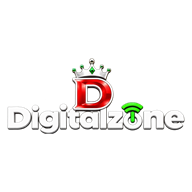
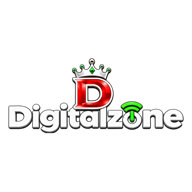
feat: add login component, navbar, and core application assets and configuration

Changed region(s): [[0.0312, 0.2812, 0.9688, 0.7188]]

diff --git a/src/components/Navbar.tsx b/src/components/Navbar.tsx
@@ -131,17 +131,17 @@ const Navbar: React.FC = () => {
 
   return (
     <>
-      <header className="bg-white text-gray-900 shadow-md border-b border-gray-200 sticky top-0 z-50">
+      <header className="bg-slate-50/95 text-gray-900 shadow-xs border-b border-slate-200 sticky top-0 z-50 backdrop-blur-sm">
         <div className="max-w mx-auto px-3 sm:px-4 md:px-6">
           <div className="flex justify-between items-center py-2 sm:py-2.5 md:py-3">
             <div className="flex items-center gap-2">
               <button
                 onClick={() => showNavigation && setShowSidebar(!showSidebar)}
-                className={`h-8 sm:h-9 md:h-10 w-auto max-w-[120px] flex items-center justify-center ${showNavigation ? 'cursor-pointer hover:opacity-80' : 'cursor-default opacity-100'} transition-opacity duration-200`}
+                className={`h-9 sm:h-10 w-auto flex items-center justify-center px-2 py-0.5 rounded-xl bg-slate-100/90 hover:bg-slate-200/80 border border-slate-200/90 shadow-xs ${showNavigation ? 'cursor-pointer' : 'cursor-default'} transition-all duration-200`}
                 title={showNavigation ? "Open Navigation Menu" : "Check in to enable navigation"}
                 disabled={!showNavigation}
               >
-                <img src={logo} alt="Logo" className="h-full w-auto max-w-[110px] object-contain rounded-lg" />
+                <img src={logo} alt="Logo" className="h-full w-auto max-w-[110px] object-contain drop-shadow-[0_2px_4px_rgba(0,0,0,0.35)]" />
               </button>
               <div>
                 <h1 className="m-0 text-sm sm:text-base md:text-xl font-bold text-gray-900 leading-tight">{currentHub?.name || 'Digital Zone'}</h1>
@@ -244,10 +244,10 @@ const Navbar: React.FC = () => {
         className={`fixed top-0 left-0 h-full w-80 bg-white shadow-2xl z-[70] transform transition-transform duration-300 ease-in-out ${showSidebar ? 'translate-x-0' : '-translate-x-full'
           }`}
       >
-        <div className="flex items-center justify-between p-6 border-b border-gray-200 bg-gradient-to-r from-blue-50 to-indigo-50">
+        <div className="flex items-center justify-between p-6 border-b border-slate-200 bg-gradient-to-r from-slate-100 via-slate-50 to-red-50/20">
           <div className="flex items-center gap-3">
-            <div className="h-10 w-auto max-w-[120px] flex items-center">
-              <img src={logo} alt="Logo" className="h-full w-auto max-w-[110px] object-contain rounded-lg" />
+            <div className="h-11 w-auto flex items-center p-1.5 rounded-xl bg-slate-100/90 border border-slate-200 shadow-xs">
+              <img src={logo} alt="Logo" className="h-full w-auto max-w-[110px] object-contain drop-shadow-[0_2px_4px_rgba(0,0,0,0.35)]" />
             </div>
             <div>
               <h2 className="m-0 text-lg font-bold text-gray-900">Digital Zone</h2>

diff --git a/src/components/Login.tsx b/src/components/Login.tsx
@@ -41,18 +41,20 @@ const Login: React.FC = () => {
   };
 
   return (
-    <div className="flex justify-center items-center min-h-screen bg-white p-4">
-      <div className="bg-white p-10 rounded-2xl shadow-md w-full max-w-md border border-gray-200">
+    <div className="flex justify-center items-center min-h-screen bg-slate-100/70 p-4">
+      <div className="bg-white p-8 sm:p-10 rounded-2xl shadow-xl w-full max-w-md border border-slate-200">
         {/* Logo and Business Name */}
         <div className="flex flex-col items-center mb-8">
-          <img
-            src={logo}
-            alt="Digital Zone Logo"
-            className="h-20 sm:h-24 w-auto max-w-[280px] mb-4 object-contain"
-          />
-          <h1 className="text-center text-gray-900 mb-1 text-3xl font-bold">Digital Zone</h1>
-          <p className="text-center text-gray-600 text-sm font-medium mb-4">Sales | Service | Accessory</p>
-          <h2 className="text-center text-gray-500 text-base font-normal">Login</h2>
+          <div className="p-3 mb-4 rounded-2xl bg-slate-50 border border-slate-200/90 shadow-xs flex items-center justify-center">
+            <img
+              src={logo}
+              alt="Digital Zone Logo"
+              className="h-16 sm:h-20 w-auto max-w-[260px] object-contain drop-shadow-[0_2px_4px_rgba(0,0,0,0.35)]"
+            />
+          </div>
+          <h1 className="text-center text-slate-900 mb-1 text-3xl font-bold tracking-tight">Digital Zone</h1>
+          <p className="text-center text-slate-500 text-sm font-medium mb-3">Sales | Service | Accessory</p>
+          <h2 className="text-center text-slate-400 text-xs font-semibold uppercase tracking-wider">Login</h2>
         </div>
 
         {error && (

diff --git a/src/pages/Settings.tsx b/src/pages/Settings.tsx
@@ -502,11 +502,11 @@ const Settings: React.FC = () => {
 
                 {/* Logo Section */}
                 <div className="flex items-center gap-6 pb-6 border-b border-slate-100">
-                  <div className="h-20 sm:h-24 w-36 sm:w-44 rounded-2xl border border-slate-200 bg-white p-3 flex items-center justify-center shadow-xs">
+                  <div className="h-20 sm:h-24 w-36 sm:w-44 rounded-2xl border border-slate-200 bg-slate-50 p-3 flex items-center justify-center shadow-xs">
                     <img
                       src={shopLogo}
                       alt="Shop Logo"
-                      className="max-w-full max-h-full object-contain"
+                      className="max-w-full max-h-full object-contain drop-shadow-[0_2px_4px_rgba(0,0,0,0.35)]"
                     />
                   </div>
                   <div>

diff --git a/src/components/ProductLabel.tsx b/src/components/ProductLabel.tsx
@@ -429,7 +429,7 @@ const ProductLabel: React.FC<ProductLabelProps> = ({ product, products, shopDeta
                           <img
                             src={logoDataUrl || logo}
                             alt="Logo"
-                            className="object-contain w-auto max-w-[28px] h-[19px]"
+                            className="object-contain w-auto max-w-[28px] h-[19px] drop-shadow-[0_1px_2px_rgba(0,0,0,0.35)]"
                           />
                           <div className="font-semibold text-[7.5px] uppercase truncate text-gray-700">
                             {shopDetails?.shopName || 'Digital Zone'}

diff --git a/src/components/PrintServiceQRLabelsModal.tsx b/src/components/PrintServiceQRLabelsModal.tsx
@@ -680,7 +680,7 @@ export default function PrintServiceQRLabelsModal({
                       <img
                         src={logoDataUrl || logo}
                         alt="Logo"
-                        className="object-contain w-auto max-w-[28px] h-[18px]"
+                        className="object-contain w-auto max-w-[28px] h-[18px] drop-shadow-[0_1px_2px_rgba(0,0,0,0.35)]"
                       />
                       <div className="font-extrabold text-[9px] uppercase truncate text-slate-800">
                         {shopName}

diff --git a/vite.config.ts b/vite.config.ts
@@ -51,8 +51,8 @@ export default defineConfig({
         name: 'Digital Zone Billing',
         short_name: 'Digital Zone',
         description: 'Billing System for Digital Zone',
-        theme_color: '#3B82F6',
-        background_color: '#ffffff',
+        theme_color: '#F8FAFC',
+        background_color: '#F8FAFC',
         display: 'standalone',
         start_url: '/',
         scope: '/',

diff --git a/index.html b/index.html
@@ -11,7 +11,7 @@
   <meta name="apple-mobile-web-app-capable" content="yes">
   <meta name="mobile-web-app-capable" content="yes">
   <meta name="apple-mobile-web-app-status-bar-style" content="default">
-  <meta name="theme-color" content="#3B82F6">
+  <meta name="theme-color" content="#F8FAFC">
   <link rel="manifest" href="/manifest.webmanifest">
   <style>
     /* Allow normal scrolling */

diff --git a/src/index.css b/src/index.css
@@ -1,8 +1,13 @@
 @import "tailwindcss";
 
 @theme {
-  --color-primary-red: #ef4444;
-  --color-primary-blue: #3b82f6;
+  --color-primary-red: #dc2626;
+  --color-primary-blue: #2563eb;
+  --color-primary-green: #16a34a;
+  --color-brand-red: #dc2626;
+  --color-brand-green: #16a34a;
+  --color-brand-surface: #f8fafc;
+  --color-brand-light: #f1f5f9;
 }
 
 
